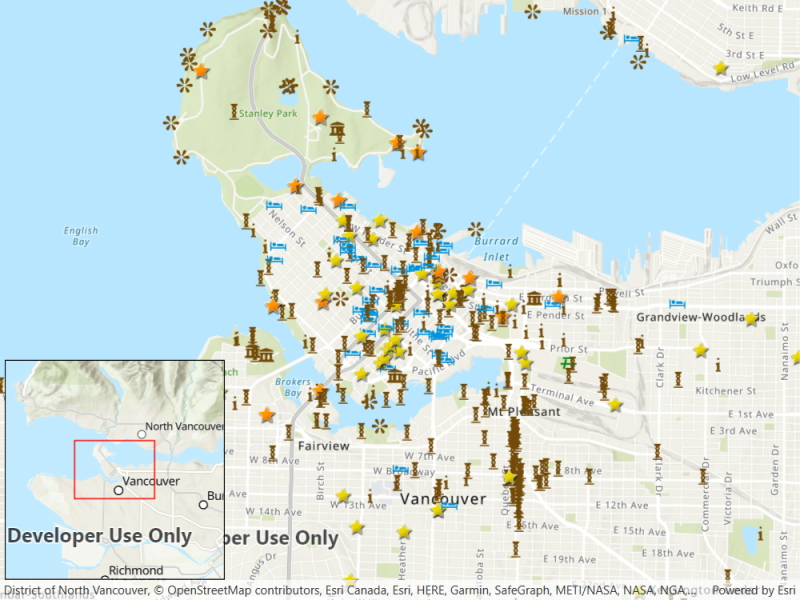
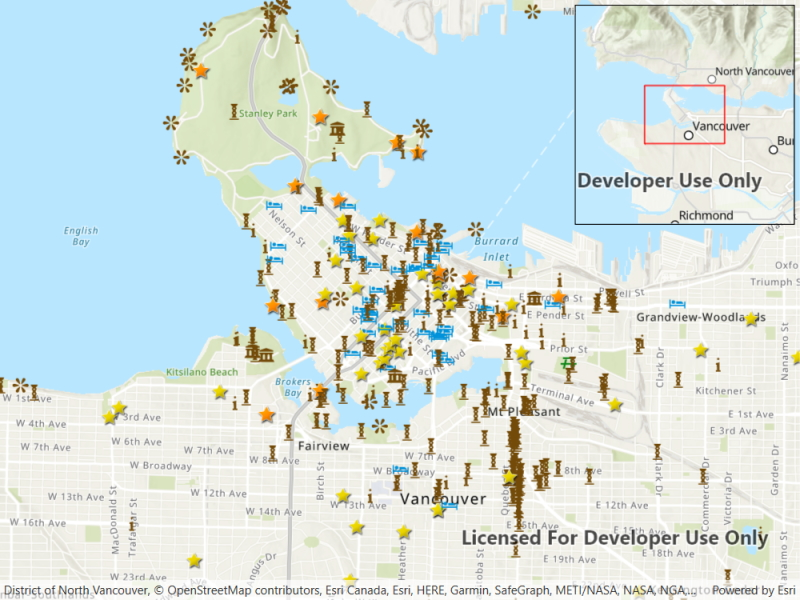
Addressed PR Comments

Changed region(s): [[0.0, 0.6, 0.4375, 0.99], [0.7188, 0.0, 1.0, 0.39], [0.5625, 0.87, 0.9688, 0.93]]

diff --git a/src/Forms/Shared/Samples/Map/DisplayOverviewMap/DisplayOverviewMap.xaml b/src/Forms/Shared/Samples/Map/DisplayOverviewMap/DisplayOverviewMap.xaml
@@ -4,20 +4,13 @@
              xmlns:esriUI="clr-namespace:Esri.ArcGISRuntime.Xamarin.Forms;assembly=Esri.ArcGISRuntime.Xamarin.Forms"
              xmlns:toolkit="clr-namespace:Esri.ArcGISRuntime.Toolkit.Xamarin.Forms;assembly=Esri.ArcGISRuntime.Toolkit.Xamarin.Forms">
     <Grid>
-        <Grid.RowDefinitions>
-            <RowDefinition Height="*" />
-            <RowDefinition Height="auto" />
-        </Grid.RowDefinitions>
-        <esriUI:MapView x:Name="MyMapView"
-                        Grid.Row="0"
-                        Grid.RowSpan="2" />
-        <toolkit:OverviewMap x:Name="MyOverviewMap"
-                             Grid.Row="1"
-                             Margin="5,25"
+        <esriUI:MapView x:Name="MyMapView" />
+        <toolkit:OverviewMap Margin="5,5"
                              Padding="1"
                              BackgroundColor="Black"
+                             GeoView="{Binding Source={x:Reference MyMapView}}"
                              HeightRequest="180"
-                             HorizontalOptions="Start"
+                             ScaleFactor="10"
                              WidthRequest="180" />
     </Grid>
 </ContentPage>

diff --git a/src/WPF/ArcGISRuntime.WPF.Viewer/Samples/Map/DisplayOverviewMap/DisplayOverviewMap.xaml b/src/WPF/ArcGISRuntime.WPF.Viewer/Samples/Map/DisplayOverviewMap/DisplayOverviewMap.xaml
@@ -3,18 +3,11 @@
              xmlns:x="http://schemas.microsoft.com/winfx/2006/xaml"
              xmlns:esri="http://schemas.esri.com/arcgis/runtime/2013">
     <Grid>
-        <Grid.RowDefinitions>
-            <RowDefinition Height="*" />
-            <RowDefinition Height="auto" />
-        </Grid.RowDefinitions>
-        <esri:MapView x:Name="MyMapView"
-                      Grid.Row="0"
-                      Grid.RowSpan="2" />
-        <esri:OverviewMap x:Name="MyOverviewMap"
-                          Grid.Row="1"
-                          Width="220"
+        <esri:MapView x:Name="MyMapView" />
+        <esri:OverviewMap Width="220"
                           Height="220"
-                          Margin="5,20"
-                          HorizontalAlignment="Left" />
+                          Margin="5,5"
+                          GeoView="{Binding Source={x:Reference MyMapView}}"
+                          ScaleFactor="10" />
     </Grid>
 </UserControl>

diff --git a/src/Forms/Shared/Samples/Map/DisplayOverviewMap/DisplayOverviewMap.xaml.cs b/src/Forms/Shared/Samples/Map/DisplayOverviewMap/DisplayOverviewMap.xaml.cs
@@ -27,7 +27,6 @@ namespace ArcGISRuntimeXamarin.Samples.DisplayOverviewMap
         description: "Include an overview or inset map as an additional map view to show the wider context of the primary view. ",
         instructions: "Pan or zoom across the map view to browse through the tourist attractions feature layer and notice the viewpoint and scale of the linked overview map update automatically. When running the sample on a desktop, you can also navigate by panning and zooming on the overview map. However, interactivity of the overview map is disabled on mobile devices.",
         tags: new[] { "context", "inset", "map", "minimap", "overview", "preview", "small scale", "toolkit", "view" })]
-    [ArcGISRuntime.Samples.Shared.Attributes.OfflineData("97ceed5cfc984b4399e23888f6252856")]
     public partial class DisplayOverviewMap : ContentPage
     {
         // URL to the feature service.
@@ -48,7 +47,7 @@ namespace ArcGISRuntimeXamarin.Samples.DisplayOverviewMap
             MyMapView.Map = new Map(BasemapStyle.ArcGISTopographic);
 
             // Set the initial map location.
-            MyMapView.Map.InitialViewpoint = new Viewpoint(49.28299, -123.12052, 70000);
+            MyMapView.SetViewpoint(new Viewpoint(49.28299, -123.12052, 70000));
 
             // Create the feature table, referring to the feature service.
             _featureTable = new ServiceFeatureTable(new Uri(FeatureServiceUrl));
@@ -58,12 +57,6 @@ namespace ArcGISRuntimeXamarin.Samples.DisplayOverviewMap
 
             // Add the layer to the map.
             MyMapView.Map.OperationalLayers.Add(featureLayer);
-
-            // Connect the overview map to the map.
-            MyOverviewMap.GeoView = MyMapView;
-
-            // Set the scale of the overview map relative to the basemap. 
-            MyOverviewMap.ScaleFactor = 10;
         }
     }
 }

diff --git a/src/WPF/ArcGISRuntime.WPF.Viewer/Samples/Map/DisplayOverviewMap/DisplayOverviewMap.xaml.cs b/src/WPF/ArcGISRuntime.WPF.Viewer/Samples/Map/DisplayOverviewMap/DisplayOverviewMap.xaml.cs
@@ -19,7 +19,6 @@ namespace ArcGISRuntime.WPF.Samples.DisplayOverviewMap
         description: "Include an overview or inset map as an additional map view to show the wider context of the primary view. ",
         instructions: "Pan or zoom across the map view to browse through the tourist attractions feature layer and notice the viewpoint and scale of the linked overview map update automatically. When running the sample on a desktop, you can also navigate by panning and zooming on the overview map. However, interactivity of the overview map is disabled on mobile devices.",
         tags: new[] { "context", "inset", "map", "minimap", "overview", "preview", "small scale", "toolkit", "view" })]
-    [ArcGISRuntime.Samples.Shared.Attributes.OfflineData("97ceed5cfc984b4399e23888f6252856")]
     public partial class DisplayOverviewMap
     {
         // URL to the feature service.
@@ -40,7 +39,7 @@ namespace ArcGISRuntime.WPF.Samples.DisplayOverviewMap
             MyMapView.Map = new Map(BasemapStyle.ArcGISTopographic);
 
             // Set the initial map location.
-            MyMapView.Map.InitialViewpoint = new Viewpoint(49.28299, -123.12052, 70000);
+            MyMapView.SetViewpoint(new Viewpoint(49.28299, -123.12052, 70000));
 
             // Create the feature table, referring to the feature service.
             _featureTable = new ServiceFeatureTable(new Uri(FeatureServiceUrl));
@@ -50,12 +49,6 @@ namespace ArcGISRuntime.WPF.Samples.DisplayOverviewMap
 
             // Add the layer to the map.
             MyMapView.Map.OperationalLayers.Add(featureLayer);
-
-            // Connect the overview map to the map.
-            MyOverviewMap.GeoView = MyMapView;
-
-            // Set the scale of the overview map relatve to the basemap. 
-            MyOverviewMap.ScaleFactor = 10;
         }
     }
 }

diff --git a/src/Forms/Shared/Samples/Map/DisplayOverviewMap/readme.md b/src/Forms/Shared/Samples/Map/DisplayOverviewMap/readme.md
@@ -31,7 +31,7 @@ The data used in this sample is the [OpenStreetMap Tourist Attractions for North
 
 ## Additional information
 
- This sample uses the overview map toolkit component, which requires the [toolkit](https://github.com/Esri/arcgis-toolkit-dotnet) to be cloned and set up locally. For information about setting up the toolkit, visit the [repository](https://github.com/Esri/arcgis-toolkit-dotnet/blob/main/README.md).
+ This sample uses the overview map toolkit component which can be accessed using the Esri.ArcGISRuntime.Toolkit.Xamarin.Forms nuget package. The [toolkit](https://github.com/Esri/arcgis-toolkit-dotnet) can also be cloned and set up locally. For information about setting up the toolkit, visit the [repository](https://github.com/Esri/arcgis-toolkit-dotnet/blob/main/README.md).
 
 ## Tags
 

diff --git a/src/WPF/ArcGISRuntime.WPF.Viewer/Samples/Map/DisplayOverviewMap/readme.md b/src/WPF/ArcGISRuntime.WPF.Viewer/Samples/Map/DisplayOverviewMap/readme.md
@@ -31,7 +31,7 @@ The data used in this sample is the [OpenStreetMap Tourist Attractions for North
 
 ## Additional information
 
- This sample uses the overview map toolkit component, which requires the [toolkit](https://github.com/Esri/arcgis-toolkit-dotnet) to be cloned and set up locally. For information about setting up the toolkit, visit the [repository](https://github.com/Esri/arcgis-toolkit-dotnet/blob/main/README.md).
+ This sample uses the overview map toolkit component which can be accessed using the Esri.ArcGISRuntime.Toolkit nuget package. The [toolkit](https://github.com/Esri/arcgis-toolkit-dotnet) can also be cloned and set up locally. For information about setting up the toolkit, visit the [repository](https://github.com/Esri/arcgis-toolkit-dotnet/blob/main/README.md).
 
 ## Tags
 
